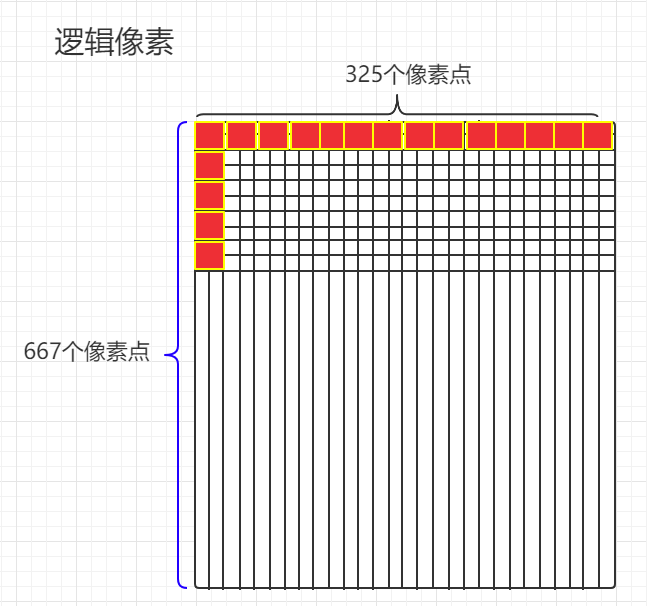
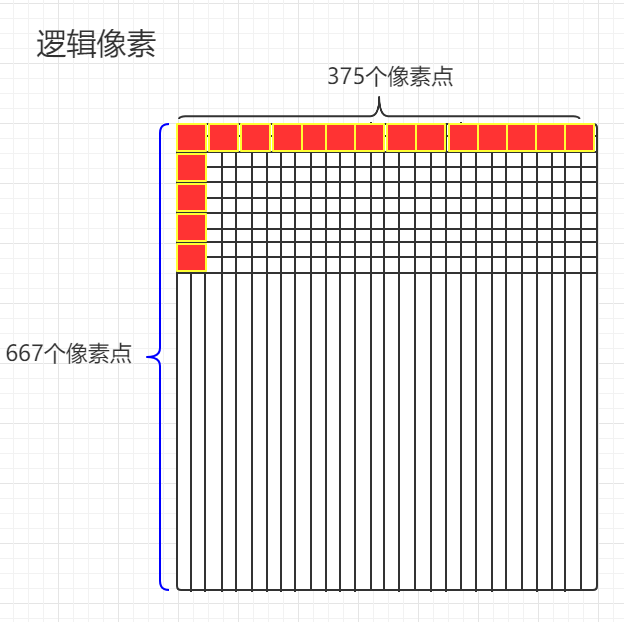
docs: update article

Changed region(s): [[0.0, 0.0891, 0.9744, 1.0], [0.0609, 0.0297, 0.274, 0.1188], [0.1827, 0.9802, 0.2131, 1.0]]

diff --git a/articles/mobile_mobileAdaptation_01/mobile_mobileAdaptation_01.md b/articles/mobile_mobileAdaptation_01/mobile_mobileAdaptation_01.md
@@ -1,15 +1,3 @@
-草稿
-1.px + pt(1.逻辑像素 2.物理像素)
-2.rem + rpx (小程序的rpx单位就是（物理像素/逻辑像素） 1rpx = 375/750=0.5px)
-3.移动端适配解决方案
-
-参考:
-
-1.https://blog.csdn.net/huangpb123/article/details/89323266
-2.https://www.jianshu.com/p/039201217b15
-3.https://www.cnblogs.com/xiaocaiyuxiaoniao/p/10156680.html
-4.https://www.jianshu.com/p/0540d2623e52
-
 # 关于移动端适配
 
 这里会讲解一些关于移动端的知识，比如逻辑像素、物理像素等，这些也是我们前端攻城狮所必备的知识  
@@ -20,23 +8,23 @@
 
 首先要来了解两个重要的概念，就是物理像素与逻辑像素  
 
-**物理像素:**也叫物理分辨率，设备屏幕实际拥有的像素点，比如 iPhone 6 的屏幕在宽度方向有 750 个像素点，高度方向有 1334 个像素点，所以 iPhone 6 总共有 750 * 1334 个物理像素点，它的物理分辨率是 750 * 1334，在同一个设备上，它的物理像素是固定的，这是厂商在出厂时就设置好了的  
+**物理像素：**也叫物理分辨率，设备屏幕实际拥有的像素点，比如 iPhone 6 的屏幕在宽度方向有 750 个像素点，高度方向有 1334 个像素点，所以 iPhone 6 总共有 750 * 1334 个物理像素点，它的物理分辨率是 750 * 1334，在同一个设备上，它的物理像素是固定的，这是厂商在出厂时就设置好了的  
 
-**逻辑像素:**也叫显示屏分辨率，比如 iPhone 6 的逻辑像素是 375 * 667，可以理解为反映在 CSS / JS 代码里的像素点数  
+**逻辑像素：**也叫显示屏分辨率，比如 iPhone 6 的逻辑像素是 375 * 667，可以理解为反映在 CSS / JS 代码里的像素点数  
 
-这里再来一个概念，**设备像素比(Device Pixel Ratio,简称 DPR)**，它是指一个设备的物理像素与逻辑像素之比  
+这里再来一个概念，**设备像素比(Device Pixel Ratio，简称 DPR)**，它是指一个设备的物理像素与逻辑像素之比  
 
 一般情况下，电脑显示屏的设备像素比是 1，也就是说它的逻辑像素和物理像素是相等的，CSS 里写个 1px，屏幕就给你渲染成 1 个实际的像素点  
 
 但是在手机屏幕下，设备像素比不一定是 1，比如 Retina 屏幕，比如 iPhone 6 的物理像素是 750 * 1334，逻辑像素是 375 * 667，设备像素比是 2，也就是 1 个逻辑像素点用 4(2 X 2) 个实际像素点来渲染  
 
-看到这里你可能一脸懵逼，物理像素、逻辑像素、设备像素比，what?????，没关系，下面会慢慢讲解  
+看到这里你可能一脸懵逼，物理像素、逻辑像素、设备像素比，what？？？？，没关系，下面会慢慢讲解  
 
 ![BHdxYR.png](https://s1.ax1x.com/2020/11/09/BHdxYR.png)  
 
 看上面这张图，以 iPhone 6 为例子，它的物理像素是 750 * 1334，也就是横向 750 个像素点，纵向 1334 个像素点，图中每一个**白色**小方块表示一个像素点  
 
-[![BHBpqO.png](https://s1.ax1x.com/2020/11/09/BHBpqO.png)](https://imgchr.com/i/BHBpqO)
+![BqxTgg.png](https://s1.ax1x.com/2020/11/10/BqxTgg.png)
 
 再来看这张图，还是以 iPhone 6 为例子，它的逻辑像素是 375 * 667，也就是横向 375 个像素点，纵向 667 个像素点，图中每一个**红色**小方块表示一个像素点  
 
@@ -84,16 +72,171 @@
       var width = window.screen.width;
       var height = window.screen.height;
       var dpr = window.devicePixelRatio;
-      document.write("物理分辨率-宽度：" + width + "<br/>");
-      document.write("物理分辨率-高度：" + height + "<br/><br/>");
-      document.write("逻辑分辨率-宽度：" + width * dpr + "<br/>");
-      document.write("逻辑分辨率-高度：" + height * dpr);
+      console.log("逻辑分辨率-宽度：" + width);
+      console.log("逻辑分辨率-高度：" + height);
+      console.log("物理分辨率-宽度：" + width * dpr);
+      console.log("物理分辨率-高度：" + height * dpr);
     </script>
   </head>
   <body></body>
 </html>
 ```
 
+----
+
+## 关于 1px 物理像素的边框
+
+在电脑显示屏上，一般它的 DPR 为 1，物理像素和逻辑像素相等，CSS 的 1px 就是真正物理像素的 1px，但是如果在手机屏幕上，情况就大有不同，如果手机的 DPR 不是 1，那么 CSS 的 1px 并不是真正物理像素的 1px，那么该如何绘制物理像素为 1px 的边框呢  
+
+以 iPhone 6 为例子，它的 DPR 为 2，也就是说 1 个 CSS 像素等于 2 个物理像素，CSS 的 1px 实际上是用 2 个物理像素渲染的，可不可以在 CSS 里写 0.5px 呢，这是不可以的，如果在 CSS 里写 0.5px，最终也会渲染成 1px 的逻辑像素，结果还是一样的  
+
+渲染 1px 物理像素边框可以用 CSS3 的 `transform:scale()` 属性，进行缩放，缩放的值为 DPR 的倒数，举个例子，还是 iPhone 6，如果要绘制 1px 物理像素的边框，可以这样  
+
+```css
+/* 这个是盒子 */
+.box{
+  position:relative;
+  padding: 10px;
+}
+
+/* 这个是盒子后的伪元素 */
+.box:after{
+  content: " ";
+  position: absolute;
+  left: 0;
+  top: 0;
+  width: 200%;
+  height: 200%;
+  border:1px solid #f00;
+  -webkit-transform-origin: 0 0;
+  transform-origin: 0 0;
+  -webkit-transform: scale(.5, .5);
+  transform: scale(.5, .5);
+}
+```
+
+这里最好利用伪元素，不直接修改原来盒子的 CSS 属性，还有这个伪元素的宽高要给 `200%`，因为 `transform: scale(.5, .5);` 会让宽高缩小为原来的一半，所以给 `200%` 才是真正的 `100%` 宽高  
+
+----
+
+## 移动端适配解决方案
+
+### vw / vh
+
+vw(Viewport Width)、vh(Viewport Height)是基于视图窗口的单位，是 CSS3 的一部分，基于视图窗口的单位，除了 vw、vh 还有 vmin、vmax  
+
+- vw:1vw 等于视口宽度的 1%  
+- vh:1vh 等于视口高度的 1%  
+- vmin:选取 vw 和 vh 中最小的那个，即在手机竖屏时，1vmin = 1vw  
+- vmax:选取 vw 和 vh 中最大的那个，即在手机竖屏时，1vmax = 1vh  
+
+举个例子，假设浏览器宽度为 1920px，高度为 1080px，此时 1vw = 19.2px， 1vh = 10.8px  
+
+vw、vh 都是相对于视图窗口(viewport)的，每个设备的视图窗口大小可能会不一样，vw、vh 会随着视图窗口的改变而改变，实现了移动端下的适配  
+
+在每个页面中的视图窗口(viewport)也是可以手动设置的，默认的视图窗口宽度就是设备宽度  
+
+```html
+<!-- 默认的视图窗口设置 -->
+<meta name="viewport" content="width=device-width, initial-scale=1.0">
+<!-- 自定义的视图窗口设置 -->
+<meta name="viewport" content="height=100,width=100,initial-scale=1.0,user-scalable=no">
+```
+
+----
+
+### rem
+
+rem 是相对长度单位，它是基于 em 的，em 也是一个相对长度单位，**em 是相对于父元素的**，看下面的例子  
+
+```html
+<!DOCTYPE html>
+<html lang="en">
+<head>
+  <meta charset="UTF-8">
+  <meta name="viewport" content="width=device-width, initial-scale=1.0">
+  <title>demo</title>
+</head>
+<style>
+  body{
+    font-size: 100px;
+  }
+  .box{
+    font-size: 1.5em;
+  }
+  .box p{
+    font-size: 0.5em;
+  }
+</style>
+<body>
+  <div class="box">
+    div
+    <p>ppppp</p>
+  </div>
+</body>
+</html>
+```
+
+浏览器默认尺寸是 16px，这里我把它改为了 100px，`.box` 元素 `font-size` 为 1.5em，也就是 body 的 1.5 倍，即为 100 * 1.5 = 150px，`.box p` 元素 `font-size` 为 0.5em，也就是 `.box` 元素的 0.5 倍，即为 150 * 0.5 = 75px，总之 em 是相对于上一级的  
+
+了解了 em 之后再来看 rem，rem 与 em 相比就多了一个 r，r = root 根元素，顾名思义 rem 是相对于根元素 html 的  
+
+```html
+<!DOCTYPE html>
+<html lang="en">
+<head>
+  <meta charset="UTF-8">
+  <meta name="viewport" content="width=device-width, initial-scale=1.0">
+  <title>demo</title>
+</head>
+<style>
+  html{
+    font-size: 100px;
+  }
+  .box{
+    font-size: 1.5rem;
+  }
+  .box p{
+    font-size: 0.5rem;
+  }
+</style>
+<body>
+  <div class="box">
+    div
+    <p>ppppp</p>
+  </div>
+</body>
+</html>
+```
+
+这里给根元素 html 设置了 `font-size:100px;`，也就是设置了根元素是 100px，也可以说基准值就是 100px，`.box` 元素 1.5rem 即为 100 * 1.5 = 150px，`.box p` 元素 0.5rem 即为 100 * 0.5 = 50px，总而言之，rem 只会相对于根元素进行计算  
+
+如果每次页面大小发生变化的时候，重新计算根元素 html 的 `font-size`，改变基准值，是不是就能实现响应式布局了呢，这就是 rem 布局的原理  
+
+我的 github 上有一个 demo，可以看这里 [传送门](https://github.com/EmotionBin/various-demo/tree/master/rem-layout)  
+
+----
+
+### 小程序的 rpx
+
+写过微信小程序的都知道，微信小程序中写样式的单位不是 px 而是 rpx，其实 rpx 经过计算后最终还是被渲染成 px 的，这个计算过程不需要我们操心  
+
+> rpx（responsive pixel）: 可以根据屏幕宽度进行自适应。规定屏幕宽为750rpx。如在 iPhone6 上，屏幕宽度为375px，共有750个物理像素，则750rpx = 375px = 750物理像素，1rpx = 0.5px = 1物理像素  
+
+![Bq4MuD.png](https://s1.ax1x.com/2020/11/10/Bq4MuD.png)  
+
+想要详细了解可以看 [微信官方文档](https://developers.weixin.qq.com/miniprogram/dev/framework/view/wxss.html)  
+
+----
+
+## 结束语
+
+以上就是本文的所有内容。如果本文中有说的不正确的地方，欢迎大佬鞭策!  
+
+**参考资料：**
+
+[CSS中的px与物理像素、逻辑像素、1px边框问题](https://www.cnblogs.com/xiaocaiyuxiaoniao/p/10156680.html)  
+[移动端Web页面适配方案（整理版）](https://www.jianshu.com/p/2c33921d5a68)  
 
 
 
